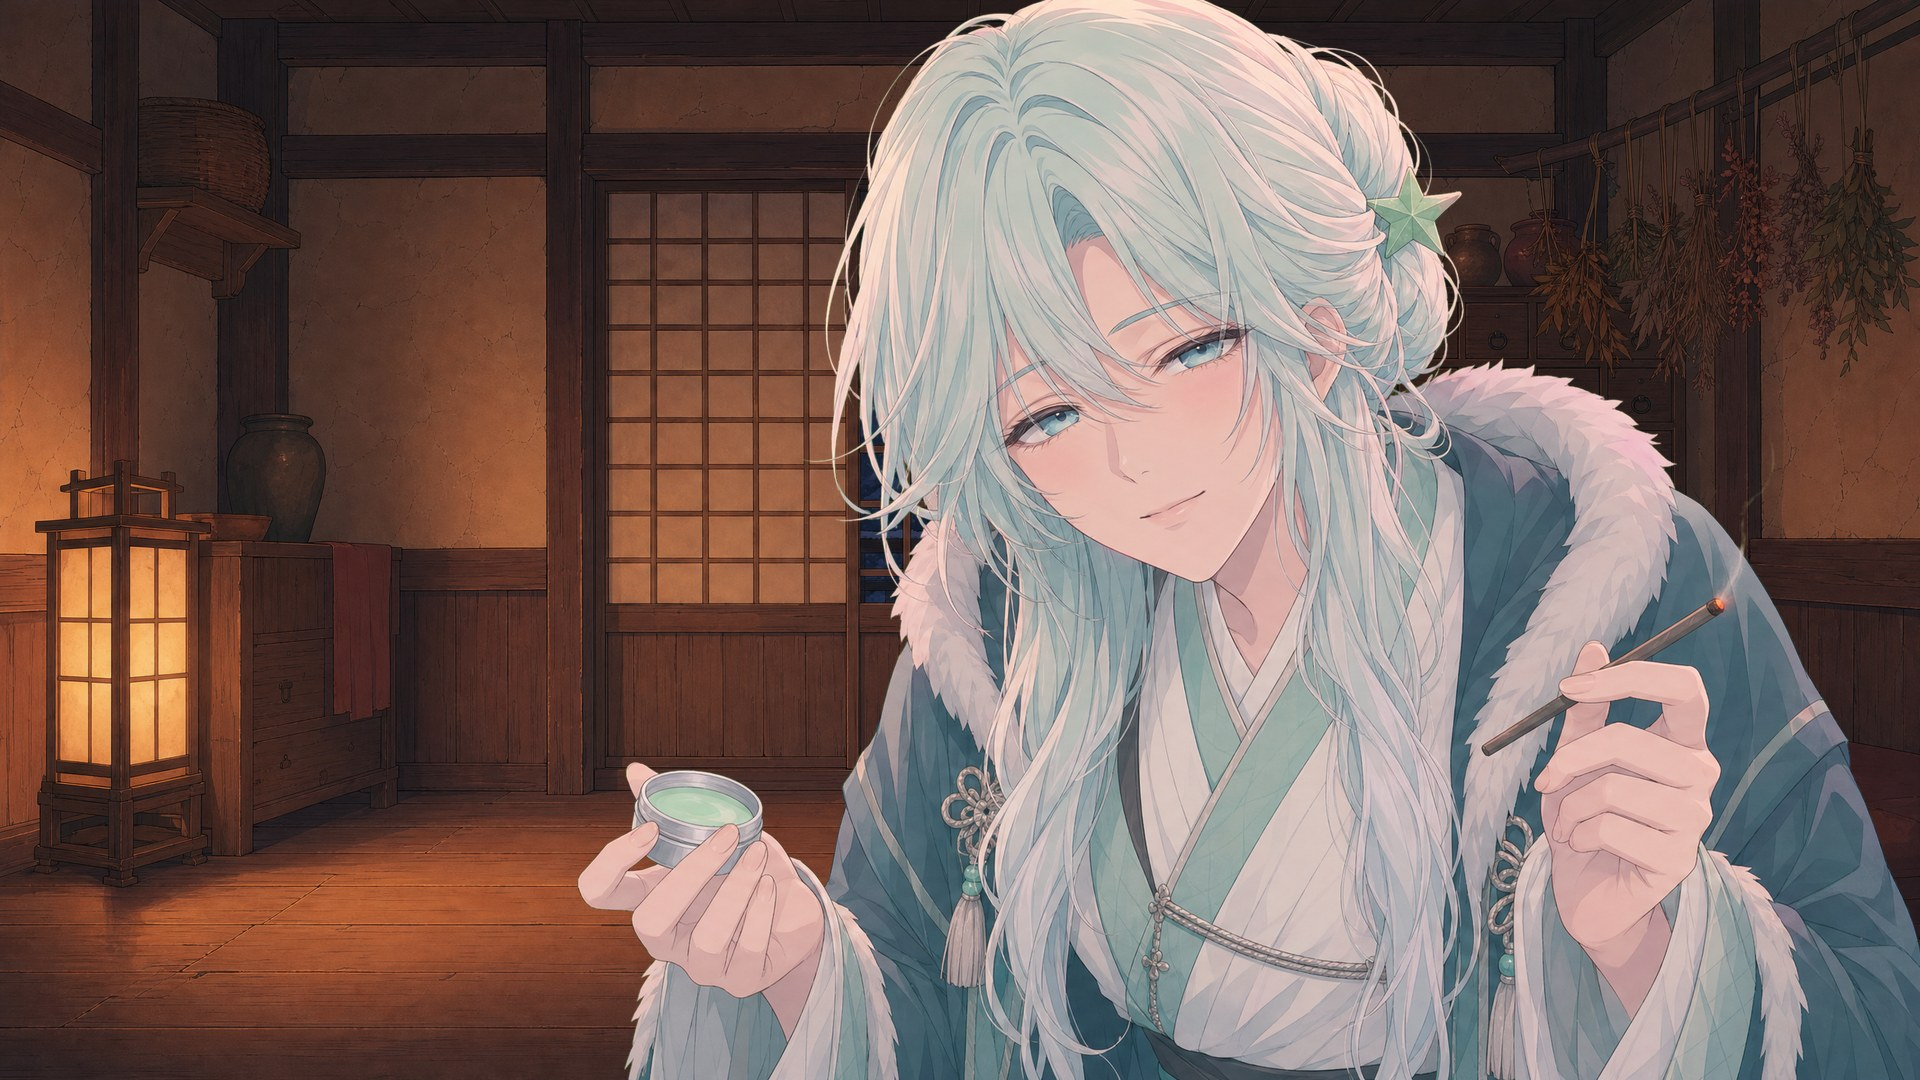
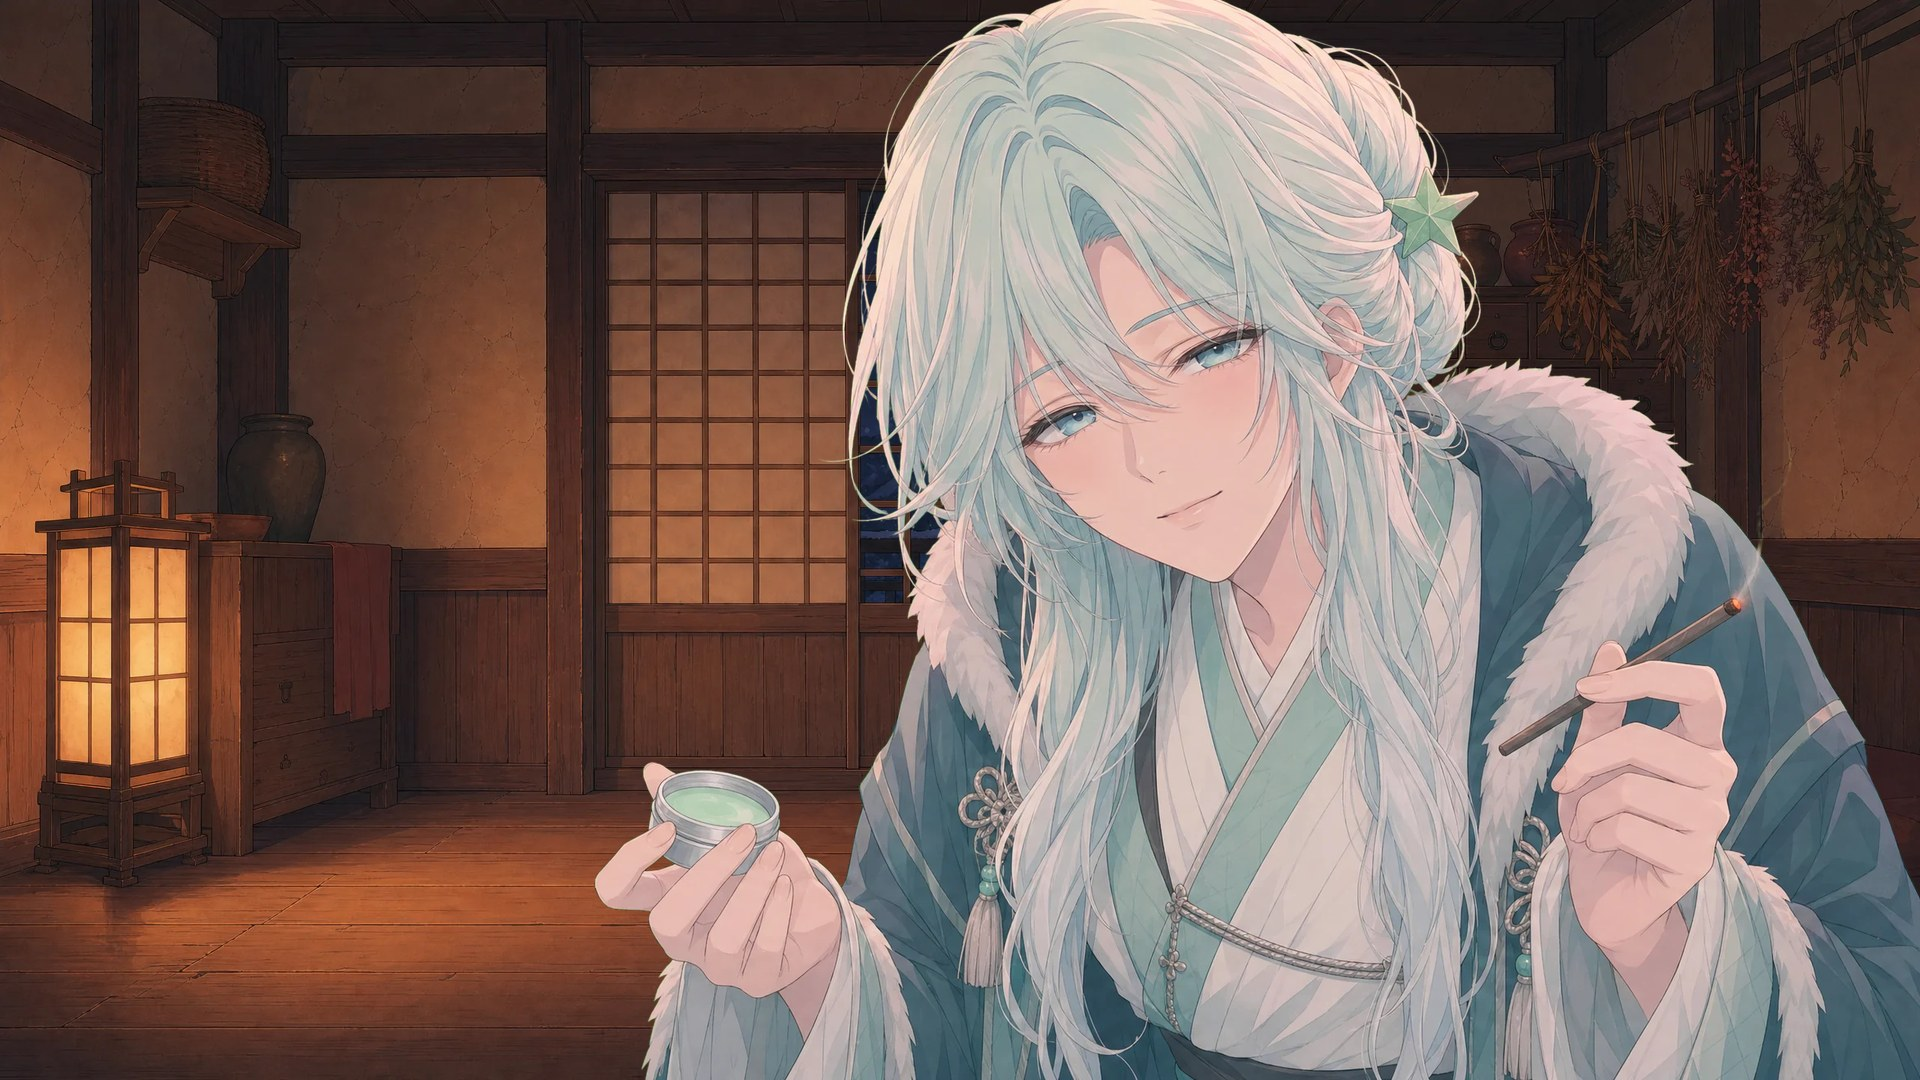
Demo43_BlizzardInn: figures moved a little so complete edges sit ≥ 1 % inside / cut edges ≥ 1.5 % outside the frame (place_view.py, no rebuild)

Changed region(s): [[0.2812, 0.0, 1.0, 1.0], [0.5938, 0.4583, 0.625, 0.4889]]

diff --git a/demos/for-men/Demo43_BlizzardInn/media/layers.js b/demos/for-men/Demo43_BlizzardInn/media/layers.js
@@ -437,7 +437,7 @@ window.MOHEAT_LAYERS = {
     "src": "art/char_mint_ear.webp?v=a6012163",
     "w": 1700,
     "h": 1320,
-    "x": 0.66,
+    "x": 0.669,
     "y": 1.0,
     "height": 1.0,
     "box": [
@@ -604,7 +604,7 @@ window.MOHEAT_LAYERS = {
     "src": "art/char_mint_ear.webp?v=a6012163",
     "w": 1700,
     "h": 1320,
-    "x": 0.66,
+    "x": 0.669,
     "y": 1.0,
     "height": 1.0,
     "box": [
